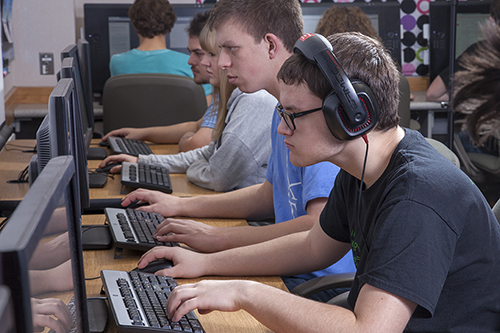
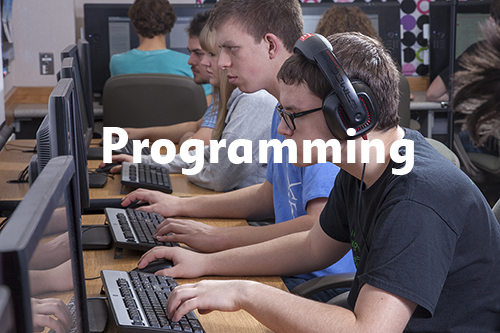
TSA Main

Changed region(s): [[0.18, 0.3604, 0.84, 0.5405]]

diff --git a/TSA_JATC/index.html b/TSA_JATC/index.html
@@ -24,6 +24,7 @@
             <li><a href="pages/web.html">Web Development</a></li>
 			<li><a href="pages/competitions.html">Competitions</a></li>
             <li><a href="http://www.jatcweb.org/tsa3uas">Drones</a></li>
+			<li><a href="http://www.jatc-wj.org">JATC</a></li>
         </ul>
     </nav>
     <!--Slider-->
@@ -53,41 +54,43 @@
         </div>
     </div>
 	<section id="Programs">
+	<ul>
+	<li>
 		<img src="images/IMG_22731.jpg" alt="Web Development"  id="programPics"/>
 	<div id="tsaFront">
-		<h4>Web Development</h4>
 	</div>
-	</section>
-		<section id="Programs">
+	</li>
+	<li>
 		<img src="images/IMG_23101.jpg" alt="Programming"  id="programPics"/>
 	<div id="tsaFront">
-		<h4>Programming</h4>
 	</div>
-	</section>
-	<section id="Programs">
+
+	<li>
 		<img src="images/IMG_23841.jpg" alt="Digital Media"  id="programPics"/>
 	<div id="tsaFront">
 	</div>
-	</section>
-	<section id="Programs">
-		<img src="images/IMG_26201.jpg" alt="Biotechnology"  id="programPics"/>
+	</li>
+	<li>
+		<img src="images/IMG_26201.png" alt="Biotechnology"  id="programPics"/>
 	<div id="tsaFront">
 	</div>
-	</section>
-	<section id="Programs">
+	</li>
+	<li>
 	<img src="images/IMG_27061.jpg" alt="Engineering"  id="programPics"/>
 	<div id="tsaFront">
 	</div>
+	</li>
+	</ul>
 	</section>
 		<div id="tsaFront">
-        <h4>The Technology Student Association's Motto:</h4>
-        <p>-Learning To Live In A Technical World.</p>
+        <h4>Technology Student Association's Motto:</h4>
+        <p>Learning To Live In A Technical World.</p>
         <br />
         <h4>The Technology Student Association's Creed:</h4>
-        <p>-I believe that Technology Education holds an important place in my life in the technical world. I believe there is a need for the development of good attitudes concerning work, tools, materials, experimentation, and processes of industry. Guided by my teachers, artisans from industry, and my own initiative, I will strive to do my best in making my school, community, state, and nation better places in which to live. I will accept the responsibilities that are mine. I will accept the theories that are supported by proper evidence. I will explore on my own for safer, more effective methods of working and living. I will strive to develop a cooperative attitude and will exercise tact and respect for other individuals. Through the work of mu hands and mind, I will express my ideas to the best of mu ability. I will make it my goal to do better each day the task before me, and to be steadfast in my belief in my God, and my fellow Americans. </p>
+        <p>I believe that Technology Education holds an important place in my life in the technical world. I believe there is a need for the development of good attitudes concerning work, tools, materials, experimentation, and processes of industry. Guided by my teachers, artisans from industry, and my own initiative, I will strive to do my best in making my school, community, state, and nation better places in which to live. I will accept the responsibilities that are mine. I will accept the theories that are supported by proper evidence. I will explore on my own for safer, more effective methods of working and living. I will strive to develop a cooperative attitude and will exercise tact and respect for other individuals. Through the work of mu hands and mind, I will express my ideas to the best of mu ability. I will make it my goal to do better each day the task before me, and to be steadfast in my belief in my God, and my fellow Americans. </p>
         <br />
         <h4>History Of TSA:</h4>
-        <p>-The Technology Student Association (TSA), formerly AIASA, is the oldest student organization dedicated exclusively to students enrolled in technology education classes grades K-12. It has a rich history that spans nearly four decades. Three distinct periods may be found in TSA's history. During the period from 1958 to 1978, the American Industrial Arts Student Association (AIASA) was a sponsored activity of the American Industrial Arts Association (AIAA). In 1978, the nonprofit corporation, AIASA, Inc., was formed to oversee AIASA as a separate organization. During the decade that followed, the organization grew in size, strength, structure, and impact on students and secondary school programs. The summer of 1988 closed this third decade as AIASA reached another milestone, a change in the organization's name: the Technology Student Association (TSA).</p>
+        <p>The Technology Student Association (TSA), formerly AIASA, is the oldest student organization dedicated exclusively to students enrolled in technology education classes grades K-12. It has a rich history that spans nearly four decades. Three distinct periods may be found in TSA's history. During the period from 1958 to 1978, the American Industrial Arts Student Association (AIASA) was a sponsored activity of the American Industrial Arts Association (AIAA). In 1978, the nonprofit corporation, AIASA, Inc., was formed to oversee AIASA as a separate organization. During the decade that followed, the organization grew in size, strength, structure, and impact on students and secondary school programs. The summer of 1988 closed this third decade as AIASA reached another milestone, a change in the organization's name: the Technology Student Association (TSA).</p>
 	</div>
 </body>
 </html>

diff --git a/TSA_JATC/pages/engineering.html b/TSA_JATC/pages/engineering.html
@@ -19,12 +19,16 @@
             <li><a href="../pages/programming.html">Programming</a></li>
             <li><a href="../pages/web.html">Web Development</a></li>
             <li><a href="http://www.jatcweb.org/tsa3uas">Drones</a></li>
+			<li><a href="http://www.jatc-wj.org">JATC</a></li>
         </ul>
     </nav>
     <div id="header">
         <img src="../images/Engineering.png" />
     </div>
     <article>
+	        <div>
+            <img src="../images/Gary_Werner.jpg" id="teachPics" />
+        </div>
         <div class="teacherInfo">
             <h4 id="teacherName">Gary Werner</h4>
             <ul class="teacherInfo">
@@ -35,9 +39,6 @@
         <div id="courseDescription">
             <h4>Description:</h4>
             <p>The engineering program consists of 4 courses to help students understand the field of engineering/ engineering technology. Students will develop a solid foundation of pre-engineering, research, and design skills as well as learn concepts from the "Project Lean the Way" program. Project Lead the Way (PLTW) is the leading provider of rigorous and innovative Science, Technology, Engineering, and Mathematics (STEM) education curricular prorams used in middle and high schools across the U.S. STEM education is at the heart of today's high-tech, high-skill global economy. The hand's-on, project based engineering courses that we have at the school engage students on multiple levels, expose them to areas of study that they typically do not pursue, and provide them with a foundation and proven path to college and career success.Students may register for up to 2 engineering courses per year as a junior and a senior.</p>
-        </div>
-        <div>
-            <img src="../images/Gary_Werner.jpg" id="teachPics" />
         </div>
     </article>
 </body>

diff --git a/TSA_JATC/pages/programming.html b/TSA_JATC/pages/programming.html
@@ -19,12 +19,16 @@
             <li><a href="../pages/programming.html">Programming</a></li>
             <li><a href="../pages/web.html">Web Development</a></li>
             <li><a href="http://www.jatcweb.org/tsa3uas">Drones</a></li>
+			<li><a href="http://www.jatc-wj.org">JATC</a></li>
         </ul>
     </nav>
     <div id="header">
         <img src="../images/Programming.png" />
     </div>
     <article>
+	<div>
+            <img src="../images/ross_hirschi.jpg" id="teachPics" />
+        </div>
         <div class="teacherInfo">
             <h4 id="teacherName">Ross Hirschi</h4>
             <ul class="teacherInfo">
@@ -35,9 +39,6 @@
         <div id="courseDescription">
             <h4>Description:</h4>
             <p>Computer programming/software engineering and applications are the focus of this course of study. Students are introduced to the fundamentals of computer programming. Students learn to design, code, and test their own programs while applying mathematical concepts. Concepts and problem solving skills are taught through a programming language such as C++, C#, Java, Python, or VB. Students then work on complex data structures and their uses, including sequential files, arrays, and classes. Students learn to create more powerful programs. Students begin work on dynamic allovation of data, advanced utilization of classes, and advanced GUI techniques by the end of the program.</p>
-        </div>
-        <div>
-            <img src="../images/ross_hirschi.jpg" id="teachPics" />
         </div>
     </article>
 </body>

diff --git a/TSA_JATC/pages/bio_tech.html b/TSA_JATC/pages/bio_tech.html
@@ -18,6 +18,7 @@
             <li><a href="../pages/engineering.html">Engineering</a></li>
             <li><a href="../pages/programming.html">Programming</a></li>
             <li><a href="../pages/web.html">Web Development</a></li>
+			<li><a href="http://www.jatc-wj.org">JATC</a></li>
             <li><a href="http://www.jatcweb.org/tsa3uas">Drones</a></li>
         </ul>
     </nav>
@@ -25,6 +26,9 @@
         <img src="../images/Biotech.png" />
     </div>
     <article>
+	 <div>
+        <img src="../images/mary_carlson.jpg" id="teachPics">
+     </div>
         <div class="teacherInfo">
             <h4 id="teacherName">Mary Carlson</h4>
             <ul class="teacherInfo">
@@ -36,9 +40,7 @@
             <h4> Description: </h4>
             <p> This full-year laboratory-focused program teaches basic lab techniques and their rationale. The biotechnology field applies the knowledge of biological organisms to problems that occur in the real world. The topics covered in this introductory biotechnology program include DNA isolation, DNA manipulation, protein isolation, protein manipulation, microbiology, genetics, forensics, bioinformatics, and many more. These topics are investigated in the laboratory using cutting edge equipment and in the computer lab using web tools and information.</p>
         </div>
-        <div>
-            <img src="../images/mary_carlson.jpg" id="teachPics">
-        </div>
+      
     </article>
 </body>
 </html>

diff --git a/TSA_JATC/css/style.css b/TSA_JATC/css/style.css
@@ -36,6 +36,7 @@ ul {
 
 li {
     float: left;
+	text-decoration: none;
 }
 
     li a {
@@ -65,7 +66,7 @@ nav {
         position: absolute;
         right: 5px;
         top: 3px;
-        z-index: 1;
+        z-index: 3;
         max-width: 15%;
         max-height: 15%;
     }
@@ -89,25 +90,23 @@ nav {
 	Margin: 20px;
 	border: 10px solid #ffffff;
 }
-#Programs {
-	width: 100%;
-	}
 #programPics {
     border-radius: 25% 25% 50% 50%;
     width: 200px;
     height: 175px;
-	Margin: 20px;
+	margin: 15px;
 	border: 10px solid #ffffff;
-	float: left;
-	position: relative;
-	z-index: 1;
 }
+#Programs {
+	padding-left:345px;
+	}
 
 #tsaFront h4 {
     font-family: Poppins;
     font-size: 25px;
     color: #ffffff;
-	z-index: 0;
+	padding-left: 5px;
+	text-align: center;
 }
 
 #tsaFront p {
@@ -115,6 +114,7 @@ nav {
     font-size: 20px;
     color: #ffffff;
     padding-left: 1%;
+	text-align: center;
 }
 
 /*Body of the Document*/
@@ -155,7 +155,10 @@ nav {
 
 #courseDescription p {
     color: #ffffff;
-    padding-left: 1%;
+    padding-left: 20px;
+	padding-right: 20px;
+	padding-bottom:40px;
+	font-size: 20px;
 }
 
 #courseDescription h4 {
@@ -168,5 +171,8 @@ nav {
     padding-left: 1%;
     padding-top: 1%;
 }
+#teacherInfo {
+	float: right;
+	}
 /*End of Body*/
 

diff --git a/TSA_JATC/pages/digital_media.html b/TSA_JATC/pages/digital_media.html
@@ -18,6 +18,7 @@
             <li><a href="../pages/engineering.html">Engineering</a></li>
             <li><a href="../pages/programming.html">Programming</a></li>
             <li><a href="../pages/web.html">Web Development</a></li>
+			<li><a href="http://www.jatc-wj.org">JATC</a></li>
             <li><a href="http://www.jatcweb.org/tsa3uas">Drones</a></li>
         </ul>
     </nav>
@@ -25,6 +26,9 @@
         <img src="../images/Digital Media.png" />
     </div>
     <article>
+	 <div>
+            <img src="../images/llisa_wazdeck.jpg" id="teachPics" />
+        </div>
         <div class="teacherInfo">
             <h4 id="teacherName">Lisa Wadzeck</h4>
             <ul class="teacherInfo">
@@ -35,9 +39,6 @@
         <div id="courseDescription">
             <h4>Description:</h4>
             <p>Develop skills in graphics, animation, audio, video, and game design. This course is offered as a full year or semester course. Digital media is the process of planning, instructional design, and development. Full year students will have the opportunity to choose a career emphasis and a possible internship in a design studio.</p>
-        </div>
-        <div>
-            <img src="../images/llisa_wazdeck.jpg" id="teachPics" />
         </div>
     </article>
 </body>

diff --git a/TSA_JATC/pages/web.html b/TSA_JATC/pages/web.html
@@ -19,6 +19,7 @@
             <li><a href="../pages/programming.html">Programming</a></li>
             <li><a href="../pages/web.html">Web Development</a></li>
             <li><a href="http://www.jatcweb.org/tsa3uas">Drones</a></li>
+			<li><a href="http://www.jatc-wj.org">JATC</a></li>
         </ul>
     </nav>
     <div id="header">
